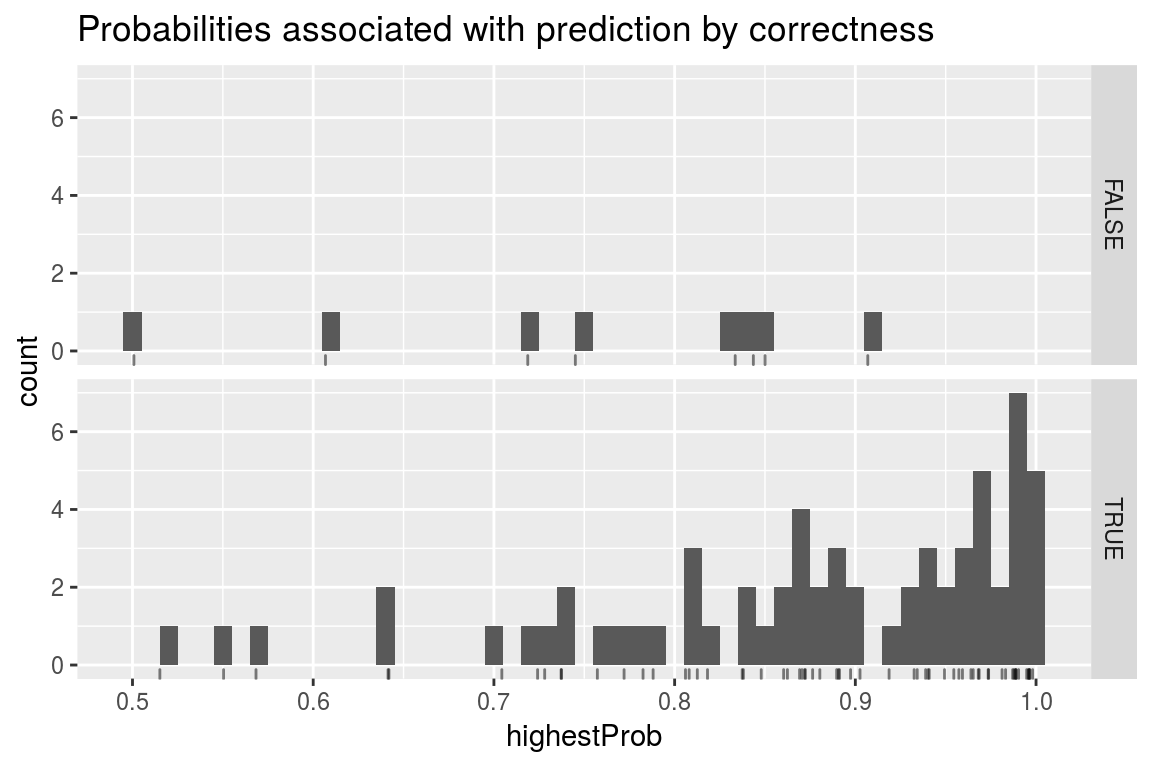
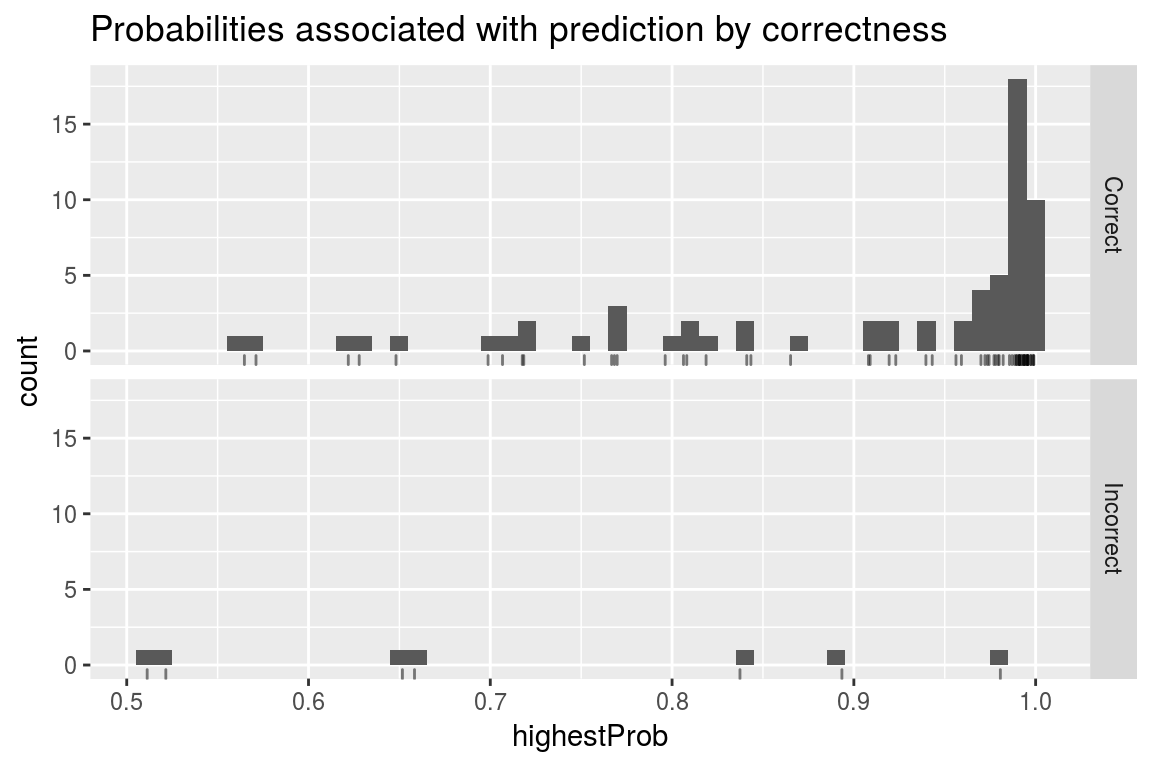
Fixed a run-on sentence in the raw data explanation and also updated the model even further by removing some dropout to get to 93% accuracy.

diff --git a/index.html b/index.html
@@ -831,7 +831,7 @@ library(ggridges)  # Visualization</code></pre>
 Throughout this post, <code>data/</code> is the directory created by downloading and unziping this dataset.
 </aside>
 <p>When downloaded from the link above, the data contains two different ‘parts.’ One that has been pre-processed using various feature extraction techniques such as fast-fourier transform, and another <code>RawData</code> section that simply supplies the raw X,Y,Z directions of an accelerometer and gyroscope. None of the standard noise filtering or feature extraction used in accelerometer data has been applied. This is the data set we will use.</p>
-<p>While a more accurate model could be made by utlizing the filtered/cleaned data provided. The motivation for working with the raw data in this post is to aid the transition of the code/concepts to time series data in less well-characterized domains. Filtering and transformation can vary greatly from task to task; requiring lots of manual effort and domain knowledge. One of the beautiful things about deep learning is the feature extraction is learned from the data, not outside knowledge.</p>
+<p>The motivation for working with the raw data in this post is to aid the transition of the code/concepts to time series data in less well-characterized domains. While a more accurate model could be made by utlizing the filtered/cleaned data provided, the filtering and transformation can vary greatly from task to task; requiring lots of manual effort and domain knowledge. One of the beautiful things about deep learning is the feature extraction is learned from the data, not outside knowledge.</p>
 <h3 id="activity-labels">Activity labels</h3>
 <p>The data has integer encodings for the activities which, while not important to the model itself, are helpful for use to see. Let’s load them first.</p>
 <div class="layout-chunk" data-layout="l-body">
@@ -1230,7 +1230,7 @@ model %&gt;%
     activation = &quot;relu&quot;
   ) %&gt;% 
   layer_batch_normalization() %&gt;%
-  layer_dropout(0.3) %&gt;% 
+  layer_dropout(0.25) %&gt;% 
   layer_dense(
     num_classes, 
     activation = &quot;softmax&quot;,
@@ -1283,7 +1283,7 @@ model %&gt;% compile(
 trainHistory &lt;- model %&gt;%
   fit(
     x = trainObs, y = trainY,
-    epochs = 250,
+    epochs = 350,
     validation_data = list(testObs, testY),
     callbacks = list(
       callback_model_checkpoint(&quot;best_model.h5&quot;, 
@@ -1300,7 +1300,7 @@ trainHistory &lt;- model %&gt;%
 <div class="layout-chunk" data-layout="l-page">
 <p><img src="index_files/figure-html5/unnamed-chunk-20-1.png" width="672" /></p>
 </div>
-<p>The model is learning something! We get a respectable 91.7% accuracy on the validation data, not bad with six possible classes to choose from. Let’s look into the validation performance a little deeper to see where the model is messing up.</p>
+<p>The model is learning something! We get a respectable 93.1% accuracy on the validation data, not bad with six possible classes to choose from. Let’s look into the validation performance a little deeper to see where the model is messing up.</p>
 <h3 id="evaluation">Evaluation</h3>
 <p>Now that we have a trained model let’s investigate the errors that it made on our testing data. We can load the best model from training based upon validation accuracy and then look at each observation, what the model predicted, how high a probability it assigned, and the true activity label.</p>
 <div class="layout-chunk" data-layout="l-body-outset">
@@ -1336,7 +1336,7 @@ predictionPerformance &lt;- tidyPredictionProbs %&gt;%
 predictionPerformance %&gt;% paged_table()</code></pre>
 <div data-pagedtable="false">
 <script data-pagedtable-source type="application/json">
-{"columns":[{"label":["obs"],"name":[1],"type":["int"],"align":["right"]},{"label":["highestProb"],"name":[2],"type":["dbl"],"align":["right"]},{"label":["predicted"],"name":[3],"type":["fctr"],"align":["left"]},{"label":["truth"],"name":[4],"type":["fctr"],"align":["left"]},{"label":["correct"],"name":[5],"type":["lgl"],"align":["right"]}],"data":[{"1":"1","2":"0.8479248","3":"STAND_TO_SIT","4":"STAND_TO_SIT","5":"TRUE"},{"1":"2","2":"0.8380428","3":"STAND_TO_SIT","4":"STAND_TO_SIT","5":"TRUE"},{"1":"3","2":"0.7241755","3":"STAND_TO_SIT","4":"STAND_TO_SIT","5":"TRUE"},{"1":"4","2":"0.7371731","3":"STAND_TO_SIT","4":"STAND_TO_SIT","5":"TRUE"},{"1":"5","2":"0.8624087","3":"STAND_TO_SIT","4":"STAND_TO_SIT","5":"TRUE"},{"1":"6","2":"0.9961841","3":"STAND_TO_SIT","4":"STAND_TO_SIT","5":"TRUE"},{"1":"7","2":"0.9639755","3":"STAND_TO_SIT","4":"STAND_TO_SIT","5":"TRUE"},{"1":"8","2":"0.9888338","3":"STAND_TO_SIT","4":"STAND_TO_SIT","5":"TRUE"},{"1":"9","2":"0.9592735","3":"STAND_TO_SIT","4":"STAND_TO_SIT","5":"TRUE"},{"1":"10","2":"0.9573006","3":"STAND_TO_SIT","4":"STAND_TO_SIT","5":"TRUE"},{"1":"11","2":"0.8603278","3":"STAND_TO_SIT","4":"STAND_TO_SIT","5":"TRUE"},{"1":"12","2":"0.9737462","3":"STAND_TO_SIT","4":"STAND_TO_SIT","5":"TRUE"},{"1":"13","2":"0.9734938","3":"SIT_TO_STAND","4":"SIT_TO_STAND","5":"TRUE"},{"1":"14","2":"0.9186829","3":"SIT_TO_STAND","4":"SIT_TO_STAND","5":"TRUE"},{"1":"15","2":"0.8125573","3":"SIT_TO_STAND","4":"SIT_TO_STAND","5":"TRUE"},{"1":"16","2":"0.8719029","3":"SIT_TO_STAND","4":"SIT_TO_STAND","5":"TRUE"},{"1":"17","2":"0.7572455","3":"SIT_TO_STAND","4":"SIT_TO_STAND","5":"TRUE"},{"1":"18","2":"0.9544911","3":"SIT_TO_STAND","4":"SIT_TO_STAND","5":"TRUE"},{"1":"19","2":"0.9685209","3":"SIT_TO_STAND","4":"SIT_TO_STAND","5":"TRUE"},{"1":"20","2":"0.9325337","3":"SIT_TO_STAND","4":"SIT_TO_STAND","5":"TRUE"},{"1":"21","2":"0.8704767","3":"SIT_TO_STAND","4":"SIT_TO_STAND","5":"TRUE"},{"1":"22","2":"0.8973675","3":"SIT_TO_STAND","4":"SIT_TO_STAND","5":"TRUE"},{"1":"23","2":"0.9831427","3":"SIT_TO_STAND","4":"SIT_TO_STAND","5":"TRUE"},{"1":"24","2":"0.9493544","3":"SIT_TO_STAND","4":"SIT_TO_STAND","5":"TRUE"},{"1":"25","2":"0.9811959","3":"SIT_TO_LIE","4":"SIT_TO_LIE","5":"TRUE"},{"1":"26","2":"0.5007851","3":"STAND_TO_LIE","4":"SIT_TO_LIE","5":"FALSE"},{"1":"27","2":"0.8763665","3":"SIT_TO_LIE","4":"SIT_TO_LIE","5":"TRUE"},{"1":"28","2":"0.9877502","3":"SIT_TO_LIE","4":"SIT_TO_LIE","5":"TRUE"},{"1":"29","2":"0.9652207","3":"SIT_TO_LIE","4":"SIT_TO_LIE","5":"TRUE"},{"1":"30","2":"0.9888814","3":"SIT_TO_LIE","4":"SIT_TO_LIE","5":"TRUE"},{"1":"31","2":"0.6414127","3":"SIT_TO_LIE","4":"SIT_TO_LIE","5":"TRUE"},{"1":"32","2":"0.8912297","3":"SIT_TO_LIE","4":"SIT_TO_LIE","5":"TRUE"},{"1":"33","2":"0.9903262","3":"SIT_TO_LIE","4":"SIT_TO_LIE","5":"TRUE"},{"1":"34","2":"0.9402887","3":"SIT_TO_LIE","4":"SIT_TO_LIE","5":"TRUE"},{"1":"35","2":"0.7825220","3":"SIT_TO_LIE","4":"SIT_TO_LIE","5":"TRUE"},{"1":"36","2":"0.9956578","3":"SIT_TO_LIE","4":"SIT_TO_LIE","5":"TRUE"},{"1":"37","2":"0.5151466","3":"LIE_TO_SIT","4":"LIE_TO_SIT","5":"TRUE"},{"1":"38","2":"0.8906640","3":"LIE_TO_SIT","4":"LIE_TO_SIT","5":"TRUE"},{"1":"39","2":"0.5683484","3":"LIE_TO_SIT","4":"LIE_TO_SIT","5":"TRUE"},{"1":"40","2":"0.5503933","3":"LIE_TO_SIT","4":"LIE_TO_SIT","5":"TRUE"},{"1":"41","2":"0.7043838","3":"LIE_TO_SIT","4":"LIE_TO_SIT","5":"TRUE"},{"1":"42","2":"0.7450607","3":"LIE_TO_STAND","4":"LIE_TO_SIT","5":"FALSE"},{"1":"43","2":"0.7881013","3":"LIE_TO_SIT","4":"LIE_TO_SIT","5":"TRUE"},{"1":"44","2":"0.8803532","3":"LIE_TO_SIT","4":"LIE_TO_SIT","5":"TRUE"},{"1":"45","2":"0.6419114","3":"LIE_TO_SIT","4":"LIE_TO_SIT","5":"TRUE"},{"1":"46","2":"0.8335211","3":"LIE_TO_STAND","4":"LIE_TO_SIT","5":"FALSE"},{"1":"47","2":"0.9408805","3":"LIE_TO_SIT","4":"LIE_TO_SIT","5":"TRUE"},{"1":"48","2":"0.9870588","3":"LIE_TO_SIT","4":"LIE_TO_SIT","5":"TRUE"},{"1":"49","2":"0.9680396","3":"STAND_TO_LIE","4":"STAND_TO_LIE","5":"TRUE"},{"1":"50","2":"0.8080444","3":"STAND_TO_LIE","4":"STAND_TO_LIE","5":"TRUE"},{"1":"51","2":"0.6067932","3":"SIT_TO_LIE","4":"STAND_TO_LIE","5":"FALSE"},{"1":"52","2":"0.9948151","3":"STAND_TO_LIE","4":"STAND_TO_LIE","5":"TRUE"},{"1":"53","2":"0.7280939","3":"STAND_TO_LIE","4":"STAND_TO_LIE","5":"TRUE"},{"1":"54","2":"0.9962329","3":"STAND_TO_LIE","4":"STAND_TO_LIE","5":"TRUE"},{"1":"55","2":"0.8435669","3":"SIT_TO_LIE","4":"STAND_TO_LIE","5":"FALSE"},{"1":"56","2":"0.8181948","3":"STAND_TO_LIE","4":"STAND_TO_LIE","5":"TRUE"},{"1":"57","2":"0.9981194","3":"STAND_TO_LIE","4":"STAND_TO_LIE","5":"TRUE"},{"1":"58","2":"0.9885610","3":"STAND_TO_LIE","4":"STAND_TO_LIE","5":"TRUE"},{"1":"59","2":"0.9025815","3":"STAND_TO_LIE","4":"STAND_TO_LIE","5":"TRUE"},{"1":"60","2":"0.9965725","3":"STAND_TO_LIE","4":"STAND_TO_LIE","5":"TRUE"},{"1":"61","2":"0.9389080","3":"LIE_TO_STAND","4":"LIE_TO_STAND","5":"TRUE"},{"1":"62","2":"0.7373982","3":"LIE_TO_STAND","4":"LIE_TO_STAND","5":"TRUE"},{"1":"63","2":"0.8060146","3":"LIE_TO_STAND","4":"LIE_TO_STAND","5":"TRUE"},{"1":"64","2":"0.7720317","3":"LIE_TO_STAND","4":"LIE_TO_STAND","5":"TRUE"},{"1":"65","2":"0.8691528","3":"LIE_TO_STAND","4":"LIE_TO_STAND","5":"TRUE"},{"1":"66","2":"0.8373861","3":"LIE_TO_STAND","4":"LIE_TO_STAND","5":"TRUE"},{"1":"67","2":"0.9342412","3":"LIE_TO_STAND","4":"LIE_TO_STAND","5":"TRUE"},{"1":"68","2":"0.8896766","3":"LIE_TO_STAND","4":"LIE_TO_STAND","5":"TRUE"},{"1":"69","2":"0.9068887","3":"LIE_TO_SIT","4":"LIE_TO_STAND","5":"FALSE"},{"1":"70","2":"0.7187330","3":"LIE_TO_SIT","4":"LIE_TO_STAND","5":"FALSE"},{"1":"71","2":"0.8500410","3":"LIE_TO_SIT","4":"LIE_TO_STAND","5":"FALSE"},{"1":"72","2":"0.8723679","3":"LIE_TO_STAND","4":"LIE_TO_STAND","5":"TRUE"}],"options":{"columns":{"min":{},"max":[10]},"rows":{"min":[10],"max":[10]},"pages":{}}}
+{"columns":[{"label":["obs"],"name":[1],"type":["int"],"align":["right"]},{"label":["highestProb"],"name":[2],"type":["dbl"],"align":["right"]},{"label":["predicted"],"name":[3],"type":["fctr"],"align":["left"]},{"label":["truth"],"name":[4],"type":["fctr"],"align":["left"]},{"label":["correct"],"name":[5],"type":["lgl"],"align":["right"]}],"data":[{"1":"1","2":"0.9230644","3":"STAND_TO_SIT","4":"STAND_TO_SIT","5":"TRUE"},{"1":"2","2":"0.9089709","3":"STAND_TO_SIT","4":"STAND_TO_SIT","5":"TRUE"},{"1":"3","2":"0.9699147","3":"STAND_TO_SIT","4":"STAND_TO_SIT","5":"TRUE"},{"1":"4","2":"0.9770999","3":"STAND_TO_SIT","4":"STAND_TO_SIT","5":"TRUE"},{"1":"5","2":"0.9892901","3":"STAND_TO_SIT","4":"STAND_TO_SIT","5":"TRUE"},{"1":"6","2":"0.9989623","3":"STAND_TO_SIT","4":"STAND_TO_SIT","5":"TRUE"},{"1":"7","2":"0.9983758","3":"STAND_TO_SIT","4":"STAND_TO_SIT","5":"TRUE"},{"1":"8","2":"0.9989549","3":"STAND_TO_SIT","4":"STAND_TO_SIT","5":"TRUE"},{"1":"9","2":"0.9949778","3":"STAND_TO_SIT","4":"STAND_TO_SIT","5":"TRUE"},{"1":"10","2":"0.9937606","3":"STAND_TO_SIT","4":"STAND_TO_SIT","5":"TRUE"},{"1":"11","2":"0.9591823","3":"STAND_TO_SIT","4":"STAND_TO_SIT","5":"TRUE"},{"1":"12","2":"0.9939958","3":"STAND_TO_SIT","4":"STAND_TO_SIT","5":"TRUE"},{"1":"13","2":"0.9958161","3":"SIT_TO_STAND","4":"SIT_TO_STAND","5":"TRUE"},{"1":"14","2":"0.9911296","3":"SIT_TO_STAND","4":"SIT_TO_STAND","5":"TRUE"},{"1":"15","2":"0.9780564","3":"SIT_TO_STAND","4":"SIT_TO_STAND","5":"TRUE"},{"1":"16","2":"0.9743781","3":"SIT_TO_STAND","4":"SIT_TO_STAND","5":"TRUE"},{"1":"17","2":"0.9821361","3":"SIT_TO_STAND","4":"SIT_TO_STAND","5":"TRUE"},{"1":"18","2":"0.9396414","3":"SIT_TO_STAND","4":"SIT_TO_STAND","5":"TRUE"},{"1":"19","2":"0.9940572","3":"SIT_TO_STAND","4":"SIT_TO_STAND","5":"TRUE"},{"1":"20","2":"0.9920014","3":"SIT_TO_STAND","4":"SIT_TO_STAND","5":"TRUE"},{"1":"21","2":"0.9894449","3":"SIT_TO_STAND","4":"SIT_TO_STAND","5":"TRUE"},{"1":"22","2":"0.9924338","3":"SIT_TO_STAND","4":"SIT_TO_STAND","5":"TRUE"},{"1":"23","2":"0.9883680","3":"SIT_TO_STAND","4":"SIT_TO_STAND","5":"TRUE"},{"1":"24","2":"0.9721186","3":"SIT_TO_STAND","4":"SIT_TO_STAND","5":"TRUE"},{"1":"25","2":"0.9909332","3":"SIT_TO_LIE","4":"SIT_TO_LIE","5":"TRUE"},{"1":"26","2":"0.7667409","3":"SIT_TO_LIE","4":"SIT_TO_LIE","5":"TRUE"},{"1":"27","2":"0.6218879","3":"SIT_TO_LIE","4":"SIT_TO_LIE","5":"TRUE"},{"1":"28","2":"0.9933299","3":"SIT_TO_LIE","4":"SIT_TO_LIE","5":"TRUE"},{"1":"29","2":"0.9953270","3":"SIT_TO_LIE","4":"SIT_TO_LIE","5":"TRUE"},{"1":"30","2":"0.9955267","3":"SIT_TO_LIE","4":"SIT_TO_LIE","5":"TRUE"},{"1":"31","2":"0.8410833","3":"SIT_TO_LIE","4":"SIT_TO_LIE","5":"TRUE"},{"1":"32","2":"0.9856113","3":"SIT_TO_LIE","4":"SIT_TO_LIE","5":"TRUE"},{"1":"33","2":"0.9870558","3":"SIT_TO_LIE","4":"SIT_TO_LIE","5":"TRUE"},{"1":"34","2":"0.9910724","3":"SIT_TO_LIE","4":"SIT_TO_LIE","5":"TRUE"},{"1":"35","2":"0.9734370","3":"SIT_TO_LIE","4":"SIT_TO_LIE","5":"TRUE"},{"1":"36","2":"0.9957384","3":"SIT_TO_LIE","4":"SIT_TO_LIE","5":"TRUE"},{"1":"37","2":"0.8651923","3":"LIE_TO_SIT","4":"LIE_TO_SIT","5":"TRUE"},{"1":"38","2":"0.8080927","3":"LIE_TO_SIT","4":"LIE_TO_SIT","5":"TRUE"},{"1":"39","2":"0.5647306","3":"LIE_TO_SIT","4":"LIE_TO_SIT","5":"TRUE"},{"1":"40","2":"0.8433690","3":"LIE_TO_SIT","4":"LIE_TO_SIT","5":"TRUE"},{"1":"41","2":"0.9080248","3":"LIE_TO_SIT","4":"LIE_TO_SIT","5":"TRUE"},{"1":"42","2":"0.5711132","3":"LIE_TO_SIT","4":"LIE_TO_SIT","5":"TRUE"},{"1":"43","2":"0.7682825","3":"LIE_TO_SIT","4":"LIE_TO_SIT","5":"TRUE"},{"1":"44","2":"0.9561775","3":"LIE_TO_SIT","4":"LIE_TO_SIT","5":"TRUE"},{"1":"45","2":"0.9431143","3":"LIE_TO_SIT","4":"LIE_TO_SIT","5":"TRUE"},{"1":"46","2":"0.5215072","3":"LIE_TO_STAND","4":"LIE_TO_SIT","5":"FALSE"},{"1":"47","2":"0.9799413","3":"LIE_TO_SIT","4":"LIE_TO_SIT","5":"TRUE"},{"1":"48","2":"0.9932259","3":"LIE_TO_SIT","4":"LIE_TO_SIT","5":"TRUE"},{"1":"49","2":"0.9793442","3":"STAND_TO_LIE","4":"STAND_TO_LIE","5":"TRUE"},{"1":"50","2":"0.8062757","3":"STAND_TO_LIE","4":"STAND_TO_LIE","5":"TRUE"},{"1":"51","2":"0.5112505","3":"SIT_TO_LIE","4":"STAND_TO_LIE","5":"FALSE"},{"1":"52","2":"0.9972969","3":"STAND_TO_LIE","4":"STAND_TO_LIE","5":"TRUE"},{"1":"53","2":"0.8373463","3":"STAND_TO_SIT","4":"STAND_TO_LIE","5":"FALSE"},{"1":"54","2":"0.9901369","3":"STAND_TO_LIE","4":"STAND_TO_LIE","5":"TRUE"},{"1":"55","2":"0.9805966","3":"SIT_TO_LIE","4":"STAND_TO_LIE","5":"FALSE"},{"1":"56","2":"0.6278850","3":"STAND_TO_LIE","4":"STAND_TO_LIE","5":"TRUE"},{"1":"57","2":"0.9973214","3":"STAND_TO_LIE","4":"STAND_TO_LIE","5":"TRUE"},{"1":"58","2":"0.9911657","3":"STAND_TO_LIE","4":"STAND_TO_LIE","5":"TRUE"},{"1":"59","2":"0.7067211","3":"STAND_TO_LIE","4":"STAND_TO_LIE","5":"TRUE"},{"1":"60","2":"0.9955693","3":"STAND_TO_LIE","4":"STAND_TO_LIE","5":"TRUE"},{"1":"61","2":"0.9194206","3":"LIE_TO_STAND","4":"LIE_TO_STAND","5":"TRUE"},{"1":"62","2":"0.6481343","3":"LIE_TO_STAND","4":"LIE_TO_STAND","5":"TRUE"},{"1":"63","2":"0.6583089","3":"SIT_TO_STAND","4":"LIE_TO_STAND","5":"FALSE"},{"1":"64","2":"0.7962171","3":"LIE_TO_STAND","4":"LIE_TO_STAND","5":"TRUE"},{"1":"65","2":"0.7517439","3":"LIE_TO_STAND","4":"LIE_TO_STAND","5":"TRUE"},{"1":"66","2":"0.7698017","3":"LIE_TO_STAND","4":"LIE_TO_STAND","5":"TRUE"},{"1":"67","2":"0.7184215","3":"LIE_TO_STAND","4":"LIE_TO_STAND","5":"TRUE"},{"1":"68","2":"0.8187139","3":"LIE_TO_STAND","4":"LIE_TO_STAND","5":"TRUE"},{"1":"69","2":"0.6516572","3":"LIE_TO_SIT","4":"LIE_TO_STAND","5":"FALSE"},{"1":"70","2":"0.7175930","3":"LIE_TO_STAND","4":"LIE_TO_STAND","5":"TRUE"},{"1":"71","2":"0.8934304","3":"LIE_TO_SIT","4":"LIE_TO_STAND","5":"FALSE"},{"1":"72","2":"0.6987885","3":"LIE_TO_STAND","4":"LIE_TO_STAND","5":"TRUE"}],"options":{"columns":{"min":{},"max":[10]},"rows":{"min":[10],"max":[10]},"pages":{}}}
   </script>
 </div>
 </div>
@@ -1369,7 +1369,7 @@ predictionPerformance %&gt;%
   theme_minimal()</code></pre>
 <p><img src="index_files/figure-html5/unnamed-chunk-23-1.png" width="768" /></p>
 </div>
-<p>We see that, as the preliminary visualization suggested, the model had the most trouble with distinguishing between <code>LIE_TO_SIT</code> and <code>LIE_TO_STAND</code>.</p>
+<p>We see that, as the preliminary visualization suggested, the model had trouble with distinguishing between <code>LIE_TO_SIT</code> and <code>LIE_TO_STAND</code>.</p>
 <h2 id="future-directions">Future directions</h2>
 <p>The most obvious future direction to take this analysis would be to attempt to make the model more general by working with more of the supplied activity types. Another interesting direction would be to not separate the recordings into distinct ‘observations’ but instead keep them as one streaming set of data, much like a real world deployment of a model would work, and see how well a model could classify streaming data and detect changes in activity.</p>
 <!--radix_placeholder_article_footer-->
